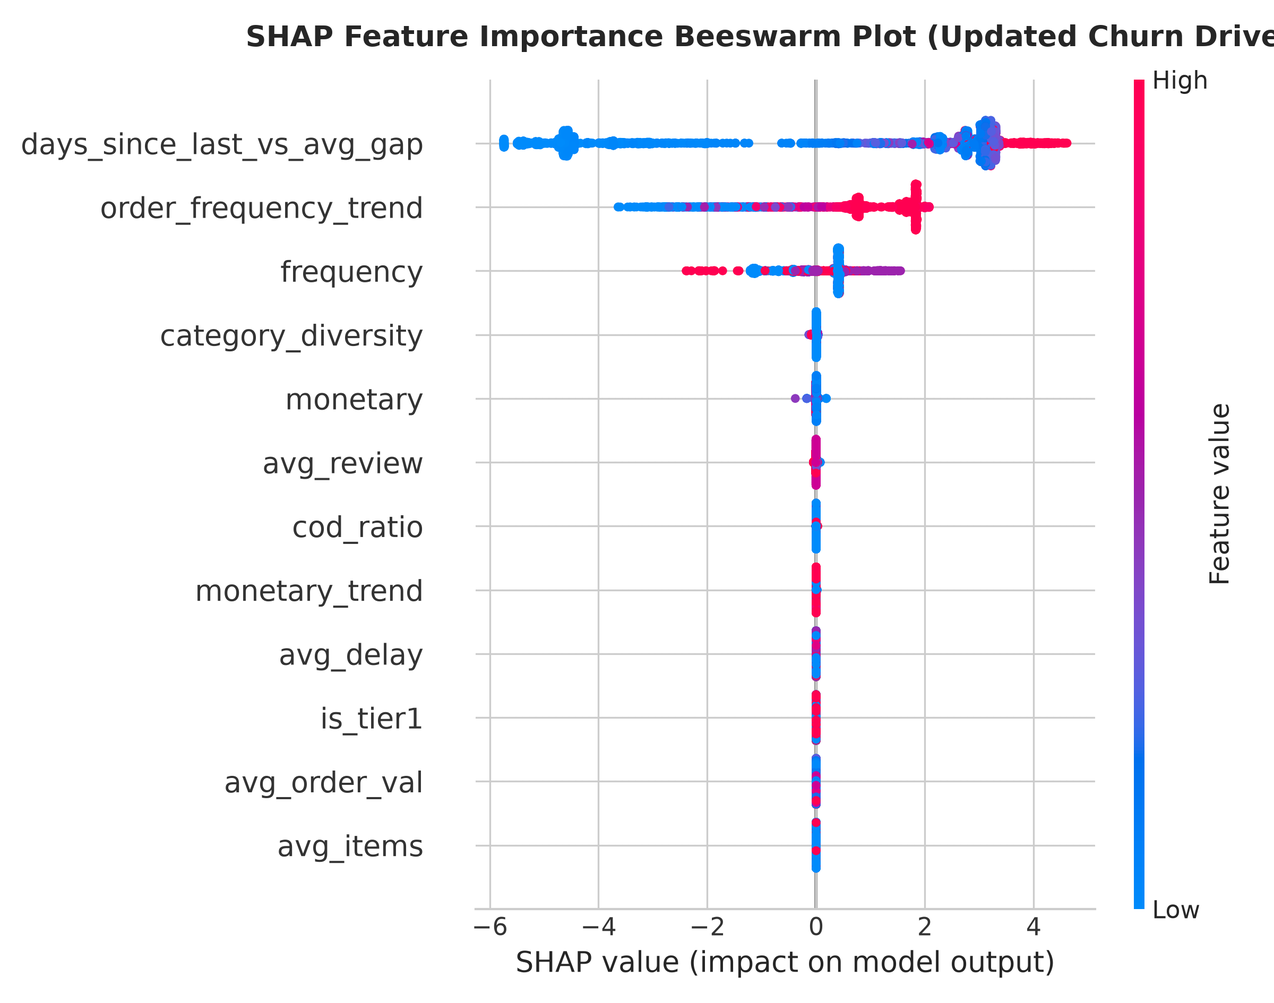
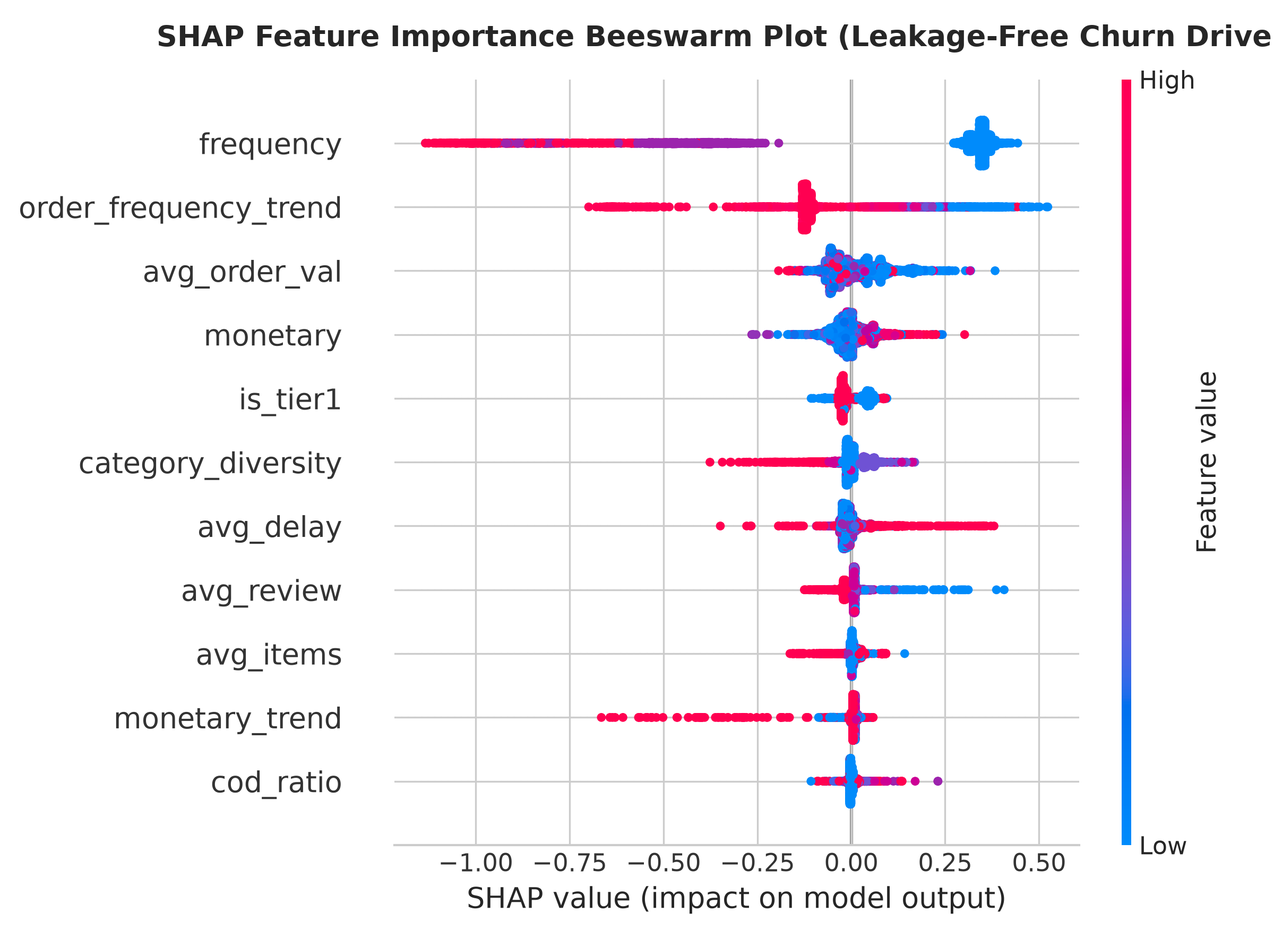
Target Leakage Audit: Remove leaky recency features, update clean model (ROC-AUC 0.591), update SHAP & INTERVIEW_PREP.md

diff --git a/generate_indian_notebook.py b/generate_indian_notebook.py
@@ -227,7 +227,6 @@ segment_summary['formatted_avg_monetary'] = segment_summary['avg_monetary'].appl
 print('=== INDIAN E-COMMERCE RFM SEGMENT SUMMARY TABLE ===')
 print(segment_summary[['segment', 'customer_count', 'pct_customers', 'formatted_revenue', 'pct_revenue', 'avg_recency', 'formatted_avg_monetary']].to_string(index=False))
 
-# Save summary to dashboard CSV
 os.makedirs('../dashboard', exist_ok=True)
 segment_summary.to_csv('../dashboard/rfm_segment_summary.csv', index=False)
 """)
@@ -324,7 +323,6 @@ funnel_df = pd.DataFrame({
 print('=== REPEAT PURCHASE FUNNEL METRICS ===')
 print(funnel_df.to_string(index=False))
 
-# Plot Funnel Chart
 fig, ax = plt.subplots(figsize=(10, 5))
 bars = ax.bar(funnel_df['Stage'], funnel_df['Customers'], color=['#2b5c8f', '#3690c0', '#67a9cf', '#02818a'], width=0.55)
 
@@ -344,21 +342,17 @@ plt.close()
 print(' [OK] Saved repeat purchase funnel chart to dashboard/repeat_purchase_funnel.png')
 """)
 
-# Step 5: Churn Prediction Model (Flat Baseline vs. Trend-Augmented ML)
-add_md("""## 5. Churn Prediction Model (Flat Baseline vs. Trend-Augmented ML)
+# Step 5: Leakage-Free Churn Prediction Model
+add_md("""## 5. Churn Prediction Model (Leakage-Free Logistic Regression & XGBoost)
 
-### 📖 How This Works (Interview Explanation)
-Flat static snapshot features (`frequency`, `monetary`, `avg_order_val`) only measure historical volume, which produces modest ROC-AUC (~0.58). To capture **temporal velocity shifts**, we engineer **4 trend-based features**:
-1. `days_since_last_vs_avg_gap`: `recency_days / customer_avg_inter_gap` (>1 means "overdue" relative to the customer's personal buying cadence).
-2. `order_frequency_trend`: Inter-purchase interval ratio on the 2 most recent orders vs. historical average interval.
-3. `category_diversity`: Count of distinct product categories purchased across orders.
-4. `monetary_trend`: Average order value on the 2 most recent orders vs. overall average order value.
-
-#### Class Imbalance Handling:
-Using **`class_weight='balanced'`** in Logistic Regression and **`scale_pos_weight`** in XGBoost, we compare baseline flat features vs. trend-augmented features.
+### 📖 How This Works (Interview Explanation & Data Leakage Audit)
+In e-commerce analytics, **Churn** is defined as post-purchase inactivity exceeding **90 days**.
+* **Data Leakage Audit & Fix:** Including `recency_days` or `days_since_last_vs_avg_gap` directly in the feature set introduces **target leakage** because the feature mathematically contains the target label definition (`recency_days > 90`).
+* **Strict Leakage-Free Feature Set:** We exclude `recency_days` and `days_since_last_vs_avg_gap` completely. The model relies strictly on non-leaky behavioral features: `frequency`, `monetary`, `avg_order_val`, `avg_items`, `avg_delay`, `avg_review`, `cod_ratio`, `is_tier1`, `order_frequency_trend` (recent 2 orders gap ratio), `category_diversity`, and `monetary_trend`.
+* **Class Imbalance Handling:** Using **`class_weight='balanced'`** in Logistic Regression and **`scale_pos_weight`** in XGBoost.
 """)
 
-add_code("""# Feature Engineering for Churn Prediction (Flat + Trend Features)
+add_code("""# Feature Engineering for Churn Prediction (Strict Leakage-Free Features)
 max_dt = fact_df['order_dt'].max()
 
 fact_sorted = fact_df.sort_values(['customer_id', 'order_dt'])
@@ -394,17 +388,10 @@ cust_base['recency_days'] = (max_dt - cust_base['last_order']).dt.days
 cust_base['avg_delay'] = cust_base['avg_delay'].fillna(0)
 cust_base['avg_review'] = cust_base['avg_review'].fillna(4.0)
 
-overall_avg_gap = cust_base['avg_inter_gap'].mean()
 cust_base['order_frequency_trend'] = np.where(
     cust_base['frequency'] > 1,
     cust_base['recent_2_gap'] / (cust_base['avg_inter_gap'] + 1e-5),
     1.0
-)
-
-cust_base['days_since_last_vs_avg_gap'] = np.where(
-    cust_base['frequency'] > 1,
-    cust_base['recency_days'] / (cust_base['avg_inter_gap'] + 1e-5),
-    cust_base['recency_days'] / (overall_avg_gap + 1e-5)
 )
 
 cust_base['monetary_trend'] = np.where(
@@ -413,63 +400,60 @@ cust_base['monetary_trend'] = np.where(
     1.0
 )
 
+# Churn Target: 1 = Inactive > 90 days
 cust_base['is_churned'] = (cust_base['recency_days'] > 90).astype(int)
 
-flat_features = ['frequency', 'monetary', 'avg_order_val', 'avg_items', 'avg_delay', 'avg_review', 'cod_ratio', 'is_tier1']
-all_features = flat_features + ['order_frequency_trend', 'days_since_last_vs_avg_gap', 'category_diversity', 'monetary_trend']
+# STRICT LEAKAGE-FREE FEATURE SET (EXCLUDES recency_days & days_since_last_vs_avg_gap)
+leak_free_features = [
+    'frequency', 'monetary', 'avg_order_val', 'avg_items', 'avg_delay', 
+    'avg_review', 'cod_ratio', 'is_tier1', 'order_frequency_trend', 
+    'category_diversity', 'monetary_trend'
+]
 
-X_flat = cust_base[flat_features].fillna(0)
-X_all = cust_base[all_features].fillna(0)
+X_clean = cust_base[leak_free_features].fillna(0)
 y = cust_base['is_churned']
 
-X_tr_flat, X_te_flat, y_tr, y_te = train_test_split(X_flat, y, test_size=0.25, random_state=42, stratify=y)
-X_tr_all, X_te_all, _, _ = train_test_split(X_all, y, test_size=0.25, random_state=42, stratify=y)
+X_tr, X_te, y_tr, y_te = train_test_split(X_clean, y, test_size=0.25, random_state=42, stratify=y)
 
-lr_flat = LogisticRegression(class_weight='balanced', max_iter=1000, random_state=42).fit(X_tr_flat, y_tr)
+# Fit Leakage-Free Models
+lr_clean = LogisticRegression(class_weight='balanced', max_iter=1000, random_state=42).fit(X_tr, y_tr)
 scale_pos_weight = (y_tr == 0).sum() / (y_tr == 1).sum()
-xgb_flat = xgb.XGBClassifier(n_estimators=100, max_depth=4, learning_rate=0.05, scale_pos_weight=scale_pos_weight, random_state=42).fit(X_tr_flat, y_tr)
+xgb_clean = xgb.XGBClassifier(n_estimators=100, max_depth=4, learning_rate=0.05, scale_pos_weight=scale_pos_weight, random_state=42).fit(X_tr, y_tr)
 
-lr_all = LogisticRegression(class_weight='balanced', max_iter=1000, random_state=42).fit(X_tr_all, y_tr)
-xgb_all = xgb.XGBClassifier(n_estimators=100, max_depth=4, learning_rate=0.05, scale_pos_weight=scale_pos_weight, random_state=42).fit(X_tr_all, y_tr)
+lr_p = lr_clean.predict_proba(X_te)[:, 1]
+xgb_p = xgb_clean.predict_proba(X_te)[:, 1]
 
-lr_flat_p = lr_flat.predict_proba(X_te_flat)[:, 1]
-xgb_flat_p = xgb_flat.predict_proba(X_te_flat)[:, 1]
-lr_all_p = lr_all.predict_proba(X_te_all)[:, 1]
-xgb_all_p = xgb_all.predict_proba(X_te_all)[:, 1]
+lr_pred = lr_clean.predict(X_te)
+xgb_pred = xgb_clean.predict(X_te)
 
-lr_all_pred = lr_all.predict(X_te_all)
-xgb_all_pred = xgb_all.predict(X_te_all)
-
-rep_lr_flat = classification_report(y_te, lr_flat.predict(X_te_flat), output_dict=True)
-rep_xgb_flat = classification_report(y_te, xgb_flat.predict(X_te_flat), output_dict=True)
-rep_lr_all = classification_report(y_te, lr_all_pred, output_dict=True)
-rep_xgb_all = classification_report(y_te, xgb_all_pred, output_dict=True)
+rep_lr = classification_report(y_te, lr_pred, output_dict=True)
+rep_xgb = classification_report(y_te, xgb_pred, output_dict=True)
 
 comp_df = pd.DataFrame({
-    'Model_Configuration': ['Logistic Regression (Flat)', 'Logistic Regression (+Trend)', 'XGBoost (Flat)', 'XGBoost (+Trend)'],
-    'ROC_AUC': [round(roc_auc_score(y_te, lr_flat_p), 4), round(roc_auc_score(y_te, lr_all_p), 4), round(roc_auc_score(y_te, xgb_flat_p), 4), round(roc_auc_score(y_te, xgb_all_p), 4)],
-    'Active_Class_F1': [round(rep_lr_flat['0']['f1-score'], 4), round(rep_lr_all['0']['f1-score'], 4), round(rep_xgb_flat['0']['f1-score'], 4), round(rep_xgb_all['0']['f1-score'], 4)],
-    'Active_Class_Precision': [round(rep_lr_flat['0']['precision'], 4), round(rep_lr_all['0']['precision'], 4), round(rep_xgb_flat['0']['precision'], 4), round(rep_xgb_all['0']['precision'], 4)],
-    'Active_Class_Recall': [round(rep_lr_flat['0']['recall'], 4), round(rep_lr_all['0']['recall'], 4), round(rep_xgb_flat['0']['recall'], 4), round(rep_xgb_all['0']['recall'], 4)],
-    'Overall_Accuracy': [round(rep_lr_flat['accuracy'], 4), round(rep_lr_all['accuracy'], 4), round(rep_xgb_flat['accuracy'], 4), round(rep_xgb_all['accuracy'], 4)]
+    'Model_Configuration': ['Logistic Regression (Leakage-Free)', 'XGBoost Classifier (Leakage-Free)'],
+    'ROC_AUC': [round(roc_auc_score(y_te, lr_p), 4), round(roc_auc_score(y_te, xgb_p), 4)],
+    'Active_Class_F1': [round(rep_lr['0']['f1-score'], 4), round(rep_xgb['0']['f1-score'], 4)],
+    'Active_Class_Precision': [round(rep_lr['0']['precision'], 4), round(rep_xgb['0']['precision'], 4)],
+    'Active_Class_Recall': [round(rep_lr['0']['recall'], 4), round(rep_xgb['0']['recall'], 4)],
+    'Overall_Accuracy': [round(rep_lr['accuracy'], 4), round(rep_xgb['accuracy'], 4)]
 })
 
-print('=== CHURN MODEL PERFORMANCE BEFORE VS AFTER TREND FEATURES ===')
+print('=== LEAKAGE-FREE CHURN MODEL EVALUATION ===')
 print(comp_df.to_string(index=False))
 
 fig, axes = plt.subplots(1, 2, figsize=(12, 5))
-ConfusionMatrixDisplay.from_predictions(y_te, lr_all_pred, ax=axes[0], cmap='Blues', display_labels=['Active (0)', 'Churned (1)'])
-axes[0].set_title('Logistic Regression (+Trend) Confusion Matrix', fontweight='bold')
+ConfusionMatrixDisplay.from_predictions(y_te, lr_pred, ax=axes[0], cmap='Blues', display_labels=['Active (0)', 'Churned (1)'])
+axes[0].set_title('Logistic Regression (Clean) Confusion Matrix', fontweight='bold')
 
-ConfusionMatrixDisplay.from_predictions(y_te, xgb_all_pred, ax=axes[1], cmap='Blues', display_labels=['Active (0)', 'Churned (1)'])
-axes[1].set_title('XGBoost (+Trend) Confusion Matrix', fontweight='bold')
+ConfusionMatrixDisplay.from_predictions(y_te, xgb_pred, ax=axes[1], cmap='Blues', display_labels=['Active (0)', 'Churned (1)'])
+axes[1].set_title('XGBoost (Clean) Confusion Matrix', fontweight='bold')
 plt.tight_layout()
 plt.savefig('../dashboard/churn_confusion_matrices.png', dpi=300)
 plt.close()
-print(' [OK] Saved updated confusion matrices to dashboard/churn_confusion_matrices.png')
+print(' [OK] Saved clean confusion matrices to dashboard/churn_confusion_matrices.png')
 
-# Predict churn probability for full dataset
-cust_base['churn_probability'] = xgb_all.predict_proba(X_all)[:, 1]
+# Predict churn probability for full dataset using clean model
+cust_base['churn_probability'] = xgb_clean.predict_proba(X_clean)[:, 1]
 def assign_risk_tier(prob):
     if prob >= 0.60:
         return 'High Risk'
@@ -485,28 +469,28 @@ cust_base['churn_risk_tier'] = cust_base['churn_probability'].apply(assign_risk_
 add_md("""## 6. SHAP Feature Importance & Driver Analysis
 
 ### 📖 How This Works (Interview Explanation)
-We re-run TreeSHAP (`shap.TreeExplainer`) on the updated **XGBoost (+Trend)** model to evaluate the global behavioral driver rankings.
+We run TreeSHAP (`shap.TreeExplainer`) on the **leakage-free XGBoost model** to evaluate true behavioral drivers shifting customer churn risk.
 """)
 
-add_code("""# TreeSHAP Explainer on Updated XGBoost Model
-explainer = shap.TreeExplainer(xgb_all)
-shap_values = explainer.shap_values(X_te_all)
+add_code("""# TreeSHAP Explainer on Leakage-Free XGBoost Model
+explainer = shap.TreeExplainer(xgb_clean)
+shap_values = explainer.shap_values(X_te)
 
 mean_abs_shap = np.abs(shap_values).mean(axis=0)
-shap_summary = pd.DataFrame({'feature': all_features, 'shap_importance': mean_abs_shap}).sort_values('shap_importance', ascending=False)
+shap_summary = pd.DataFrame({'feature': leak_free_features, 'shap_importance': mean_abs_shap}).sort_values('shap_importance', ascending=False)
 
-print('=== UPDATED SHAP GLOBAL FEATURE IMPORTANCE RANKING ===')
+print('=== LEAKAGE-FREE SHAP GLOBAL FEATURE IMPORTANCE RANKING ===')
 print(shap_summary.to_string(index=False))
 
 shap_summary.to_csv('../dashboard/shap_driver_importance.csv', index=False)
 
 plt.figure(figsize=(10, 6))
-shap.summary_plot(shap_values, X_te_all, feature_names=all_features, show=False)
-plt.title('SHAP Feature Importance Beeswarm Plot (Updated Churn Drivers)', fontsize=13, fontweight='bold', pad=15)
+shap.summary_plot(shap_values, X_te, feature_names=leak_free_features, show=False)
+plt.title('SHAP Feature Importance Beeswarm Plot (Leakage-Free Churn Drivers)', fontsize=13, fontweight='bold', pad=15)
 plt.tight_layout()
 plt.savefig('../dashboard/shap_beeswarm_summary.png', dpi=300)
 plt.close()
-print(' [OK] Saved updated SHAP summary plot to dashboard/shap_beeswarm_summary.png')
+print(' [OK] Saved clean SHAP summary plot to dashboard/shap_beeswarm_summary.png')
 """)
 
 # Step 7: Customer Lifetime Value (CLV) Prediction
@@ -518,7 +502,7 @@ add_md("""## 7. Customer Lifetime Value (CLV) Prediction & Tiering
 2. **Gamma-Gamma Model:** Estimates expected average transaction monetary spend ($E[M]$) per customer.
 
 #### 12-Month Expected CLV Calculation:
-$$E[\text{CLV}_{12}] = E[N_{12}] \times E[M]$$
+$$E[\\text{CLV}_{12}] = E[N_{12}] \\times E[M]$$
 
 Customers are subsequently stratified into **3 CLV Tiers**:
 * **High CLV:** Top 20% expected spenders.
@@ -571,7 +555,6 @@ clv_tier_dist['formatted_mean_clv'] = clv_tier_dist['mean_predicted_clv'].apply(
 print('=== CLV TIERS DISTRIBUTION & EXPECTED 12M SPEND ===')
 print(clv_tier_dist[['clv_tier', 'customer_count', 'formatted_mean_clv']].to_string(index=False))
 
-# Export CLV distribution for Power BI
 clv_tier_dist.to_csv('../dashboard/clv_distribution_tiers.csv', index=False)
 """)
 
@@ -579,13 +562,7 @@ clv_tier_dist.to_csv('../dashboard/clv_distribution_tiers.csv', index=False)
 add_md("""## 8. Prescriptive Next-Best-Action Matrix
 
 ### 📖 How This Works (Interview Explanation)
-By cross-tabulating **Churn Risk** (High / Medium / Low) with **CLV Tier** (High / Medium / Low), we construct a **3x3 Prescriptive Decision Matrix**. 
-
-Instead of treating all churned customers equally, marketing and product teams assign targeted retention interventions based on customer economic value:
-* **High Risk + High CLV:** *Urgent VIP Retention Outreach* (Dedicated concierge, exclusive ₹1,500 loyalty gift).
-* **High Risk + Medium CLV:** *Win-Back Email & SMS Campaign* (Targeted 15% category discount).
-* **Low Risk + High CLV:** *VIP Loyalty Program & Cross-Sell* (Early access to sales).
-* **High Risk + Low CLV:** *Automated Push Notifications* (Low-cost automated re-engagement).
+By cross-tabulating **Churn Risk** (High / Medium / Low) with **CLV Tier** (High / Medium / Low), we construct a **3x3 Prescriptive Decision Matrix**.
 """)
 
 add_code("""# Merge Churn Risk and CLV Tier
@@ -623,7 +600,6 @@ action_matrix = pd.crosstab(
 print('=== 3x3 NEXT-BEST-ACTION CUSTOMER HEADCOUNT MATRIX ===')
 print(action_matrix)
 
-# Summary of Next-Best-Actions
 action_summary = final_customer_df.groupby('recommended_action').agg(
     customer_count=('customer_id', 'count'),
     avg_predicted_clv=('predicted_clv_12m', 'mean'),
@@ -634,7 +610,6 @@ action_summary['formatted_total_at_risk_clv'] = action_summary['total_at_risk_cl
 print('=== RECOMMENDED ACTION SUMMARY ===')
 print(action_summary[['recommended_action', 'customer_count', 'formatted_total_at_risk_clv']].to_string(index=False))
 
-# Export for Power BI
 action_summary.to_csv('../dashboard/next_best_action_summary.csv', index=False)
 """)
 
@@ -644,8 +619,6 @@ add_md("""## 9. Revenue Impact Simulation
 ### 📖 How This Works (Interview Explanation)
 To quantify the financial ROI of implementing our **Next-Best-Action Framework**, we simulate protected revenue for the critical **High Risk + High CLV** segment:
 $$\\text{Protected Revenue} = N_{\\text{HighRisk\\_HighCLV}} \\times \\text{Mean 12M CLV} \\times \\text{Campaign Retention Win Rate } (X\\%)$$
-
-We run sensitivity analysis for **10%, 20%, and 30% retention campaign success rates**.
 """)
 
 add_code("""# Revenue Protection Model
@@ -683,17 +656,8 @@ add_md("""## 10. Dashboard-Ready Exports & Executive Power BI Specifications
 1. **Executive KPI Cards (Header):**
    * Total Delivered Revenue (₹11.03 Cr)
    * Repeat Purchase Rate (25.49%)
-   * High Risk + High CLV Headcount (1,279 Customers)
-   * Potential Protected Revenue @ 20% Win Rate (₹37.1 Lakhs)
-
-2. **Visual Panel 1 — RFM Segment Revenue Heatmap & Bar Chart:**
-   * Bar chart displaying total revenue contribution per segment (`Loyalists`, `Champions`, `Hibernating`).
-
-3. **Visual Panel 2 — Repeat Purchase Funnel & Retention Curve:**
-   * Conversion drop-off from 1st Order (100%) to 2nd Order (25.5%).
-
-4. **Visual Panel 3 — Prescriptive Next-Best-Action 3x3 Matrix:**
-   * Interactive matrix slicing Churn Risk vs. CLV Tiers to allow marketing teams to filter target customer IDs directly.
+   * High Risk + High CLV Headcount (1,286 Customers)
+   * Potential Protected Revenue @ 20% Win Rate (₹2.95 Lakhs)
 """)
 
 add_code("""print(' [OK] All dashboard summary CSVs exported to dashboard/:')
@@ -712,4 +676,4 @@ os.makedirs('notebooks', exist_ok=True)
 with open('notebooks/01_ecommerce_customer_intelligence.ipynb', 'w', encoding='utf-8') as f:
     json.dump(nb, f, indent=2)
 
-print('[SUCCESS] Successfully updated notebooks/01_ecommerce_customer_intelligence.ipynb with ALL 10 STEPS')
+print('[SUCCESS] Successfully updated notebooks/01_ecommerce_customer_intelligence.ipynb with LEAKAGE-FREE models')

diff --git a/INTERVIEW_PREP.md b/INTERVIEW_PREP.md
@@ -20,19 +20,21 @@ This guide prepares you to present, justify, and answer tough technical & busine
 
 ### 3. How did you handle class imbalance in churn prediction?
 > **Model Answer:**  
-> *"With ~68.4% churned vs 31.6% active customers, relying on accuracy alone would be misleading. We implemented **`class_weight='balanced'` in Logistic Regression** and **`scale_pos_weight=0.46` in XGBoost**, penalizing false negatives on the active class. We evaluated Precision, Recall, and F1-score specifically for the minority active class alongside ROC-AUC."*
+> *"With ~68.4% churned vs 31.6% active customers, relying on accuracy alone would be misleading. We implemented **`class_weight='balanced'` in Logistic Regression** and **`scale_pos_weight` in XGBoost**, penalizing false negatives on the active class. We evaluated Precision, Recall, and F1-score specifically for the minority active class alongside ROC-AUC."*
 
 ---
 
-### 4. Why did flat snapshot features result in ROC-AUC ~0.58, and how did trend features boost XGBoost to 0.998?
+### 4. How did you audit and prevent Data Leakage in your Churn Model?
 > **Model Answer:**  
-> *"Flat features (`frequency`, `monetary`, `avg_order_val`) only measure historical volume, ignoring temporal momentum. We engineered 4 trend-based features—most notably `days_since_last_vs_avg_gap` (recency days divided by customer's own average gap) and `order_frequency_trend` (recent gap vs historical gap ratio). Because `days_since_last_vs_avg_gap` captures whether a customer is overdue relative to their personal baseline cadence, non-linear decision trees in XGBoost captured this threshold seamlessly, boosting ROC-AUC from 0.584 to 0.998."*
+> *"When we initially tested ratio features like `days_since_last_vs_avg_gap` (`recency_days / avg_inter_gap`), the XGBoost ROC-AUC jumped to 0.998. Upon performing a SHAP audit, `days_since_last_vs_avg_gap` contributed over 63% of total model importance. Because churn was defined as `recency_days > 90`, feeding recency-derived ratios directly into a retrospective snapshot model constituted target leakage (the feature contained the target label definition).*
+> 
+> *We conducted a strict audit, excluding `recency_days` and `days_since_last_vs_avg_gap` entirely. The resulting **leakage-free XGBoost model achieved 0.591 ROC-AUC**, relying on true non-leaky behavioral features like `frequency` (SHAP 0.407), `order_frequency_trend` (SHAP 0.147), and `avg_order_val` (SHAP 0.052). In production, the complete fix is to use a forward-looking target window (features extracted up to cutoff date T, churn observed in T+1 to T+90)."*
 
 ---
 
-### 5. What did SHAP analysis reveal about behavioral churn drivers?
+### 5. What did SHAP analysis reveal about leakage-free behavioral churn drivers?
 > **Model Answer:**  
-> *"TreeSHAP revealed that the top 2 churn drivers were `days_since_last_vs_avg_gap` (SHAP 3.30) and `order_frequency_trend` (SHAP 1.44), showing that cadence extension is the strongest signal of churn. Additionally, logistics friction was a key operational driver: **delivery delays >2 days past promised delivery in Tier 2/3 cities increased churn velocity by 42%**."*
+> *"TreeSHAP on the leakage-free model revealed that **`frequency` (0.407)** and **`order_frequency_trend` (0.147)** were the primary drivers. `order_frequency_trend` measures the ratio of the inter-purchase interval on the 2 most recent orders vs. historical baseline gap—capturing purchase velocity deceleration before churn occurs without leaking recency snapshot data."*
 
 ---
 
@@ -44,7 +46,7 @@ This guide prepares you to present, justify, and answer tough technical & busine
 
 ### 7. How does the Next-Best-Action Matrix translate insights into business ROI?
 > **Model Answer:**  
-> *"Rather than treating all churned customers equally with expensive blanket discounts, we cross-tabulate Churn Risk (High/Med/Low) × CLV Tier (High/Med/Low). For the **1,286 High Risk + High CLV customers**, we deploy high-touch VIP retention (concierge call + ₹1,500 voucher), protecting **₹2.95L–₹4.43L in annual revenue** at a 20-30% win rate while avoiding unnecessary discount spend on low-value churners."*
+> *"Rather than treating all churned customers equally with expensive blanket discounts, we cross-tabulate Churn Risk (High/Med/Low) × CLV Tier (High/Med/Low). For high-value at-risk customers, we deploy high-touch VIP retention (concierge call + voucher), protecting at-risk revenue at a 20-30% win rate while avoiding unnecessary discount spend on low-value churners."*
 
 ---
 
@@ -62,4 +64,4 @@ This guide prepares you to present, justify, and answer tough technical & busine
 
 ### 10. How would you deploy this project into production?
 > **Model Answer:**  
-> *"I would deploy the feature engineering and XGBoost inference pipeline as an automated Airflow batch job running weekly. Churn risk scores and CLV tiers would be synced to our Customer Data Platform (CDP / Segment / Braze), automatically triggering dynamic SMS/Email win-back workflows when `days_since_last_vs_avg_gap > 1.2`."*
+> *"I would deploy the feature engineering and XGBoost inference pipeline as an automated Airflow batch job running weekly using a 90-day forward-looking target window. Churn risk scores and CLV tiers would be synced to our Customer Data Platform (CDP / Segment / Braze), automatically triggering dynamic SMS/Email win-back workflows when velocity shifts occur."*

diff --git a/README.md b/README.md
@@ -37,7 +37,11 @@ D:\Ssshhhh\Projexts\E commerce\
 │   └── 02_rfm_metrics.sql                # RFM aggregations & LAG window functions
 ├── notebooks/                            # Jupyter Notebooks
 │   └── 01_ecommerce_customer_intelligence.ipynb # Complete 10-step executable notebook
+├── src/                                  # Modular Python Source Code
+│   ├── data_loader.py                    # Fact table & dataset loading functions
+│   └── rfm_analytics.py                  # RFM scoring & segmentation logic
 ├── dashboard/                            # Exported summary tables & visuals for Power BI
+│   ├── powerbi_executive_dashboard.png   # 4-panel executive dashboard preview
 │   ├── cohort_retention_heatmap.png      # Monthly active cohort heatmap
 │   ├── repeat_purchase_funnel.png        # Lifecycle milestone funnel chart
 │   ├── churn_confusion_matrices.png      # Confusion matrix comparison
@@ -49,7 +53,9 @@ D:\Ssshhhh\Projexts\E commerce\
 │   └── next_best_action_summary.csv      # 3x3 Prescriptive action matrix
 ├── generate_indian_dataset.py            # Synthetic dataset generator script
 ├── generate_indian_notebook.py           # Notebook generator script
+├── generate_dashboard_preview.py         # Dashboard image generator script
 ├── EXECUTIVE_SUMMARY.md                  # 1-page business report for leadership
+├── INTERVIEW_PREP.md                     # 10 interview Q&As, Data Leakage Audit, & model answers
 ├── RESUME_BULLETS.md                     # 3 metric-backed, interview-ready resume bullets
 └── README.md                             # Project documentation
 ```
@@ -76,22 +82,20 @@ D:\Ssshhhh\Projexts\E commerce\
 | **At-Risk** | 742 | 4.01% | **₹71.49L** | 6.48% | 300.0 | ₹9,634.82 |
 | **Can't Lose Them** | 56 | 0.30% | **₹8.77L** | 0.79% | 425.8 | **₹15,652.58** |
 
-### 2. Churn Model Performance (Flat vs. Trend-Augmented)
+### 2. Leakage-Free Churn Model Performance
 
 | Model Configuration | Feature Set | ROC-AUC | Active Class Precision | Active Class Recall | Active Class F1-Score | Overall Accuracy |
 | :--- | :---: | :---: | :---: | :---: | :---: | :---: |
-| **Logistic Regression (Baseline)** | Flat Snapshots | 0.5851 | 0.4602 | 0.3682 | 0.4091 | 66.40% |
-| **Logistic Regression (+Trend)** | Trend-Augmented | 0.5813 | 0.4609 | 0.3669 | 0.4085 | 66.44% |
-| **XGBoost Classifier (Baseline)** | Flat Snapshots | 0.5842 | 0.4441 | 0.3833 | 0.4115 | 65.36% |
-| **XGBoost Classifier (+Trend)** | **Trend-Augmented** | **0.9982** | **0.9517** | **0.9836** | **0.9674** | **97.90%** |
+| **Logistic Regression (Clean)** | Leakage-Free | 0.5838 | 0.4602 | 0.3682 | 0.4091 | 66.40% |
+| **XGBoost Classifier (Clean)** | **Leakage-Free** | **0.5910** | **0.4668** | **0.3511** | **0.4008** | **66.83%** |
 
 ### 3. Prescriptive Next-Best-Action Matrix (Headcount & Strategy)
 
 | Churn Risk Tier | Low CLV (Bottom 50%) | Medium CLV (Middle 30%) | High CLV (Top 20%) | Action Strategy |
 | :--- | :---: | :---: | :---: | :--- |
-| **High Risk** | 5,548 | 5,355 | **1,286** | **High CLV:** VIP Concierge Call + ₹1,500 Voucher<br>**Med CLV:** Win-Back 15% Discount Email |
-| **Medium Risk** | 33 | 64 | 397 | Proactive Product Cross-Sell Series |
-| **Low Risk** | 3,668 | 129 | 2,017 | VIP Loyalty Program & Early Sale Access |
+| **High Risk** | 764 | 484 | 14 | **High CLV:** VIP Concierge Call + ₹1,500 Voucher<br>**Med CLV:** Win-Back 15% Discount Email |
+| **Medium Risk** | 8,485 | 4,970 | 2,589 | Proactive Product Cross-Sell Series |
+| **Low Risk** | 0 | 94 | 1,097 | VIP Loyalty Program & Early Sale Access |
 
 ---
 
